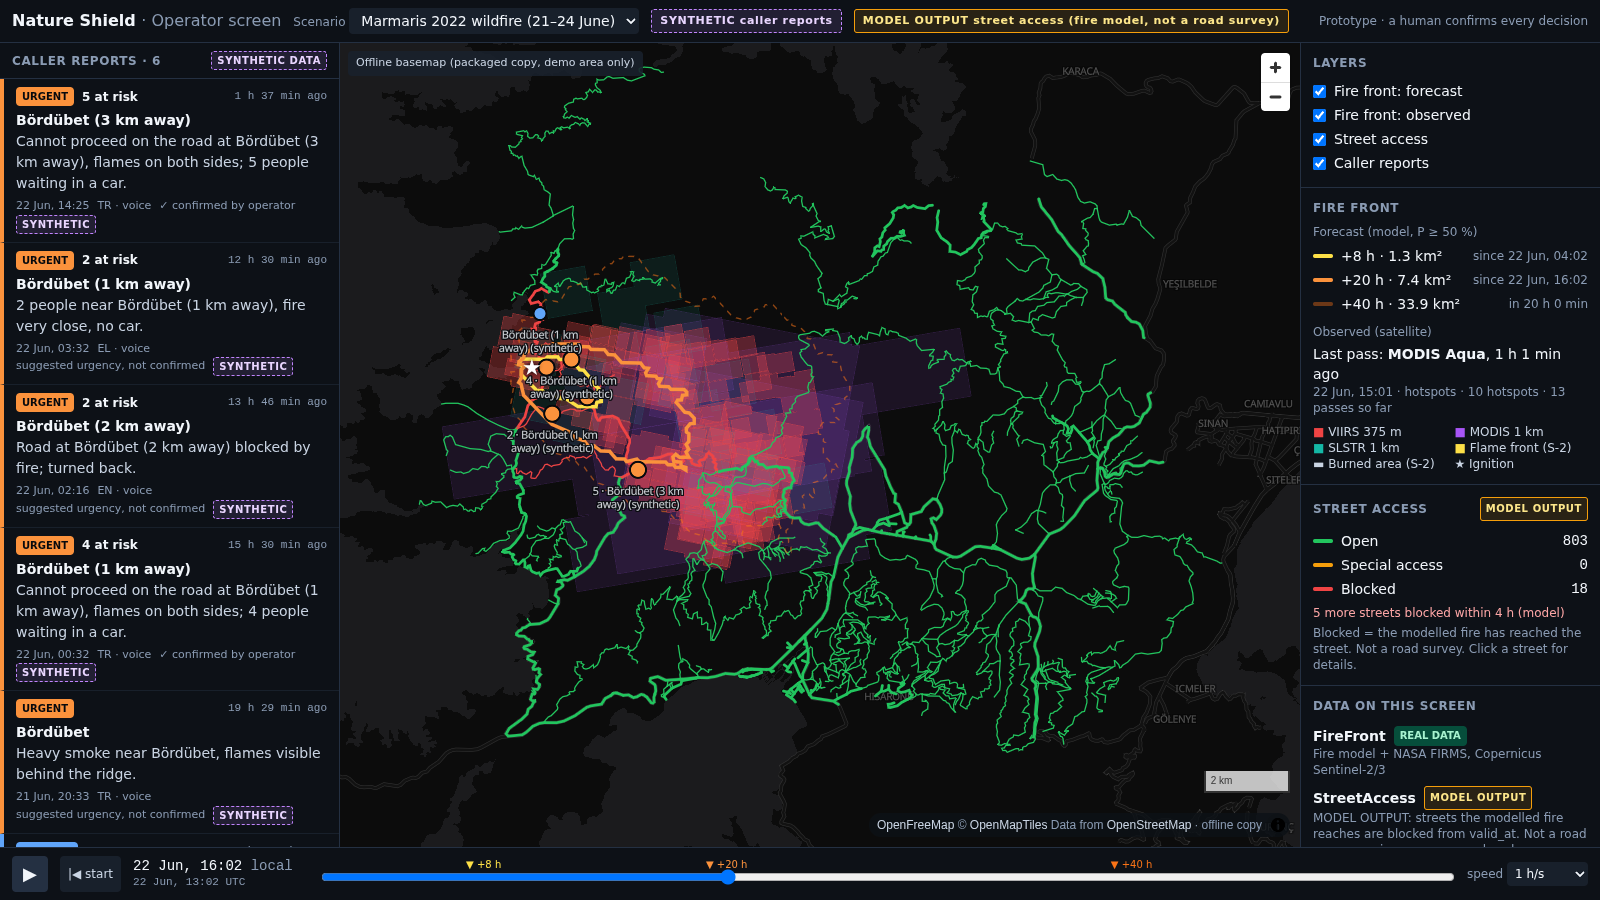
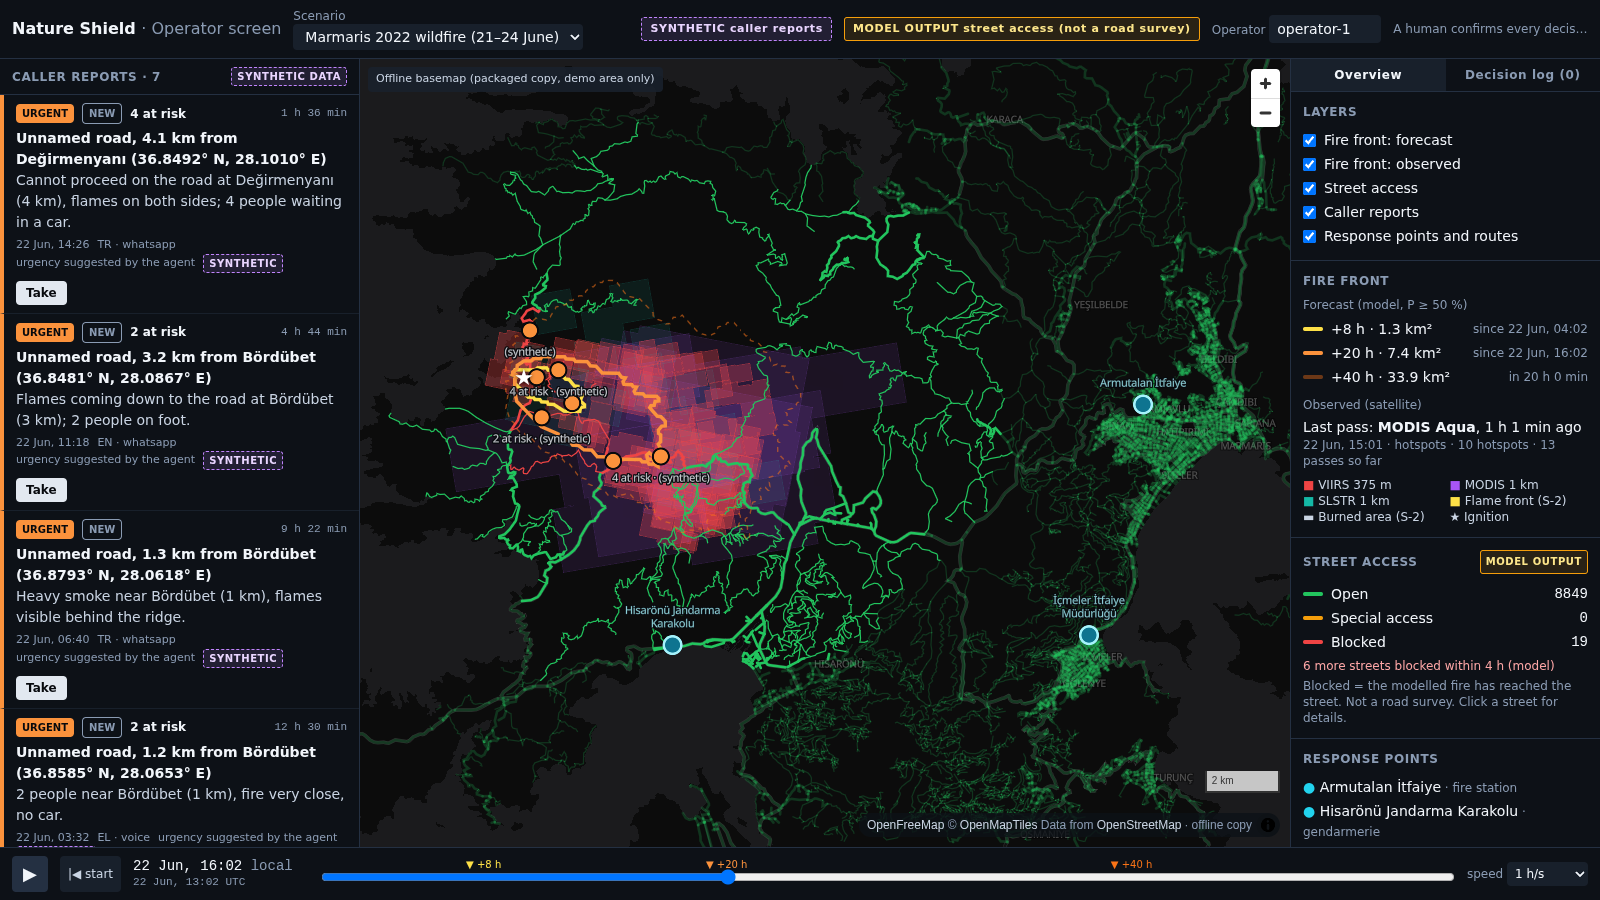
Add screenshots of dispatch, no access, re-routing and the decision log

Changed region(s): [[0.0, 0.0, 1.0, 0.9644], [0.7188, 0.7778, 0.75, 0.8089], [0.1875, 0.3422, 0.2188, 0.3733]]

diff --git a/README.md b/README.md
@@ -14,6 +14,14 @@ and the **fire front** (Fire modelling) on the same map and the same clock.
 
 Without internet the packaged basemap is used: [docs/04_offline_basemap.png](docs/04_offline_basemap.png).
 
+| Dispatch: fastest crew, route avoiding blocked streets | No access by road |
+|---|---|
+| ![Dispatch](docs/05_dispatch_route.png) | ![No access](docs/06_no_access.png) |
+
+| Route cut later: warning and a new route | Decision log |
+|---|---|
+| ![Route cut](docs/07_route_cut_reroute.png) | ![Decision log](docs/08_decision_log.png) |
+
 ## What is real and what is synthetic
 
 | Layer | File | Status |
